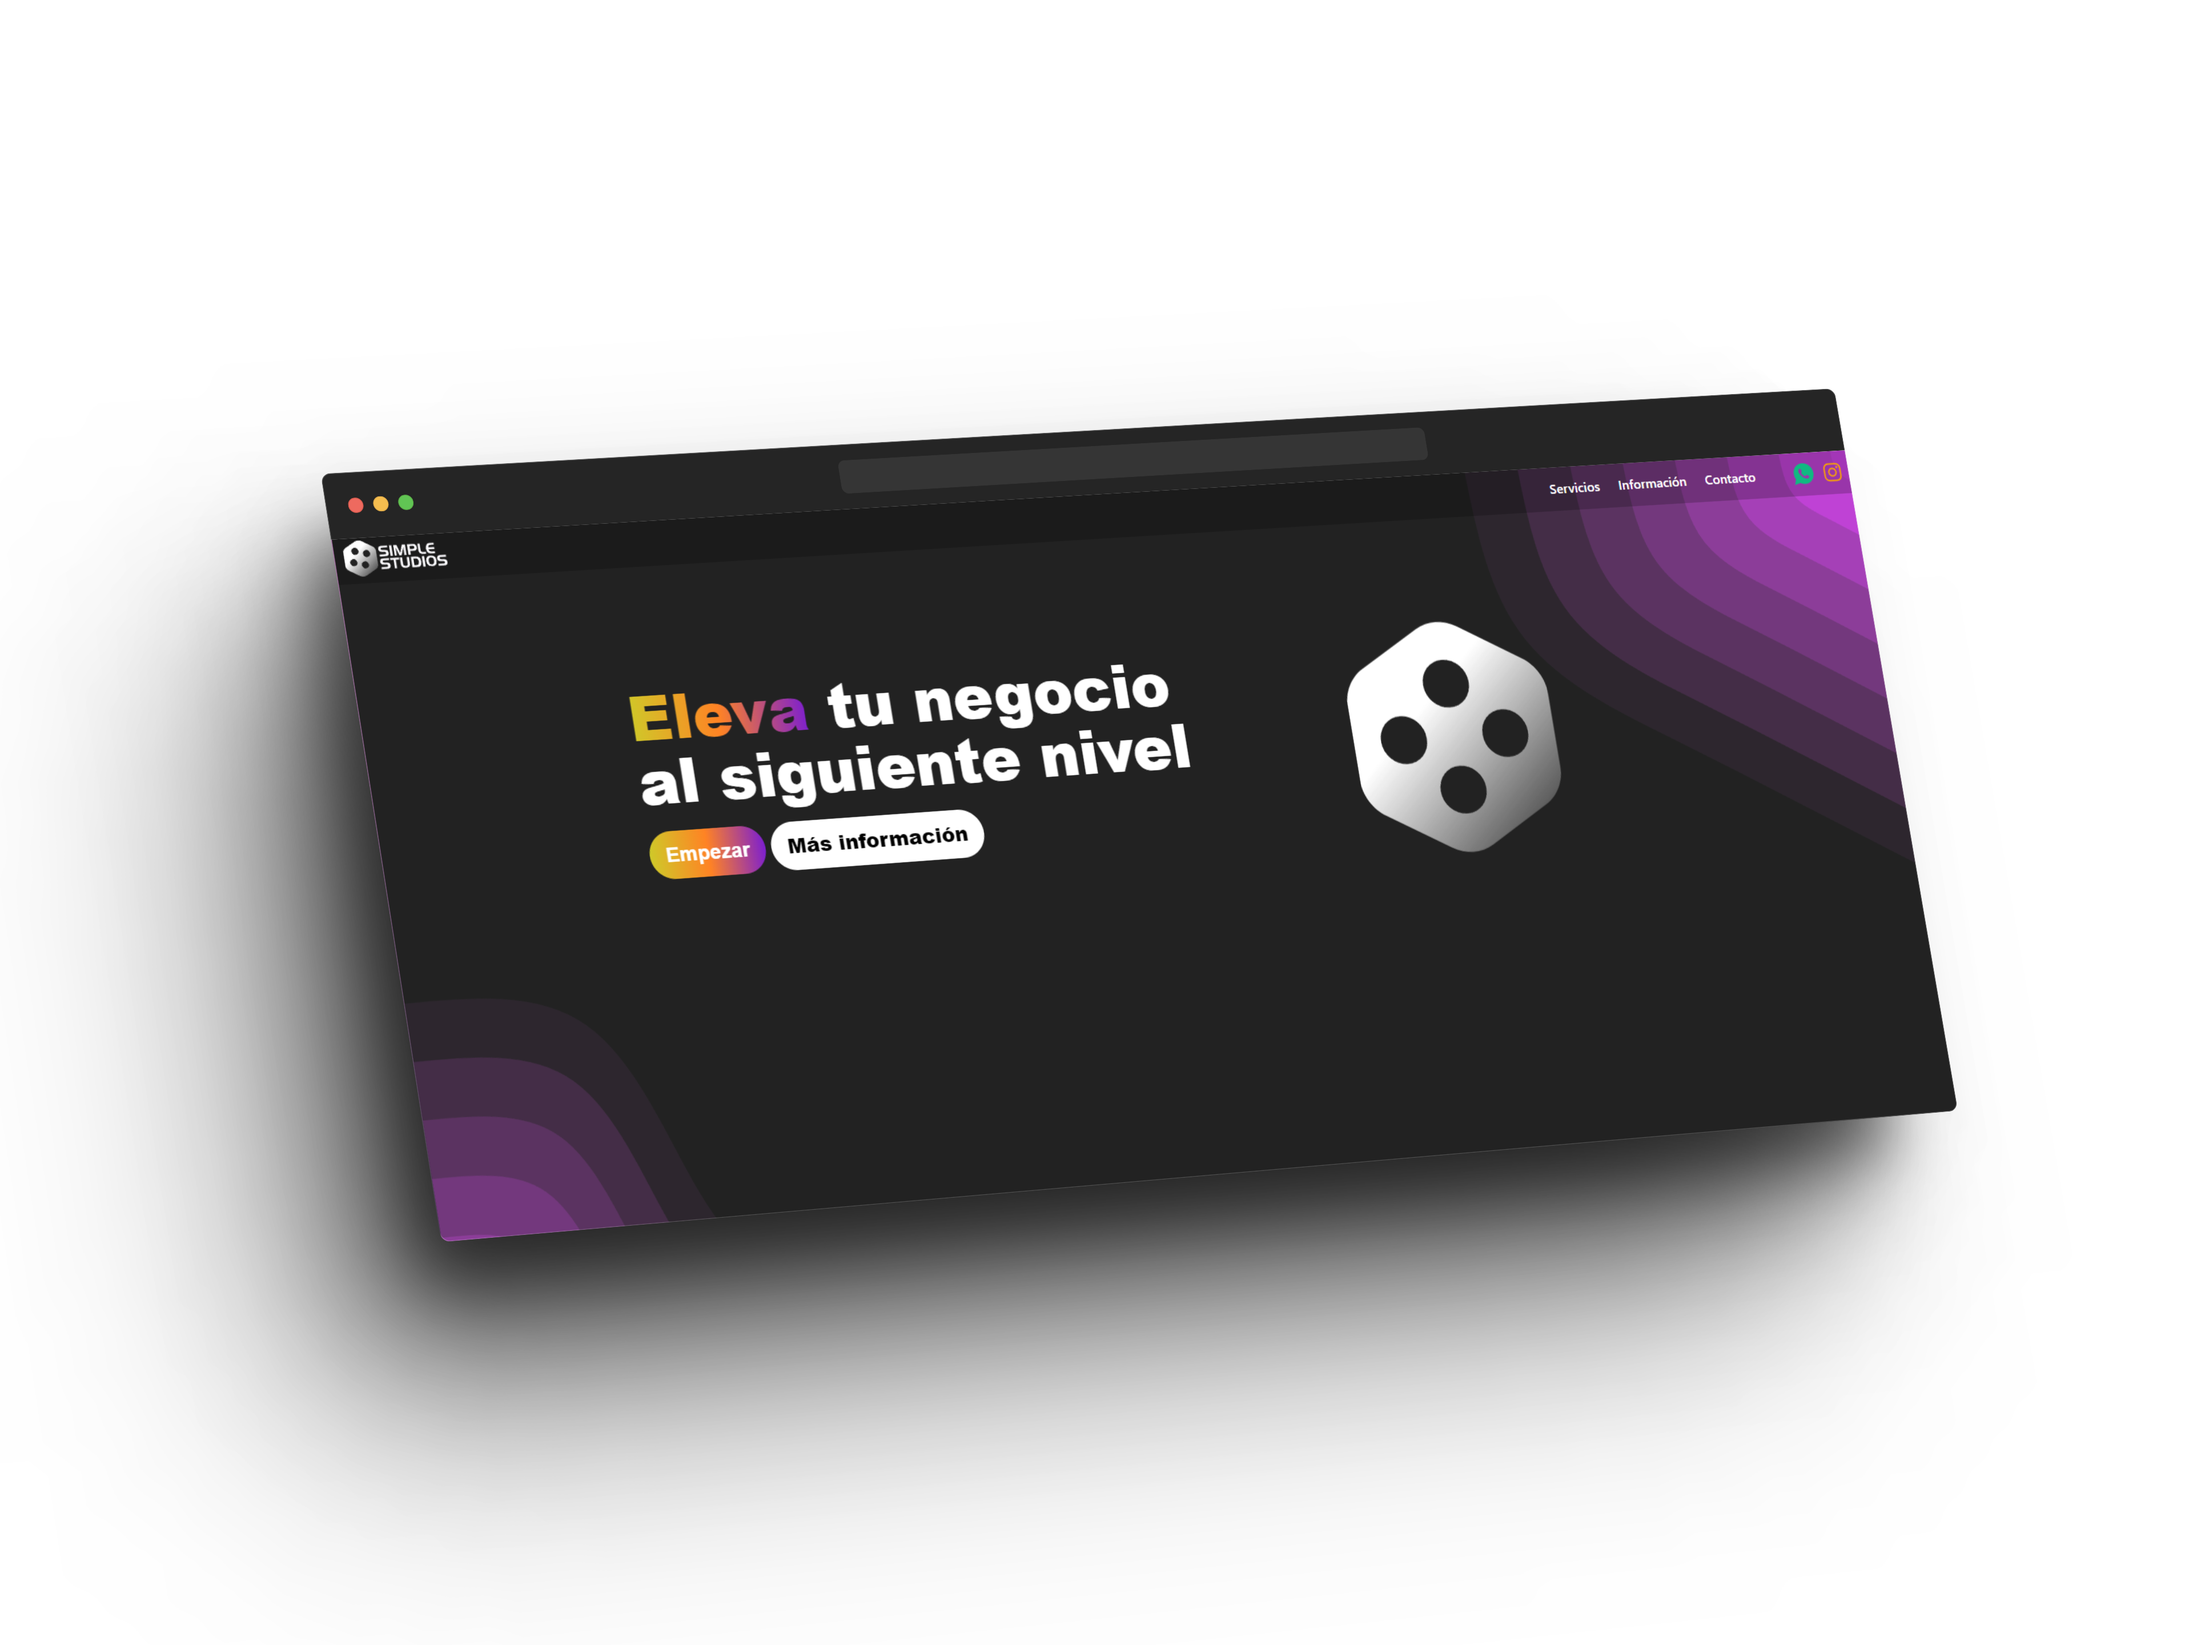
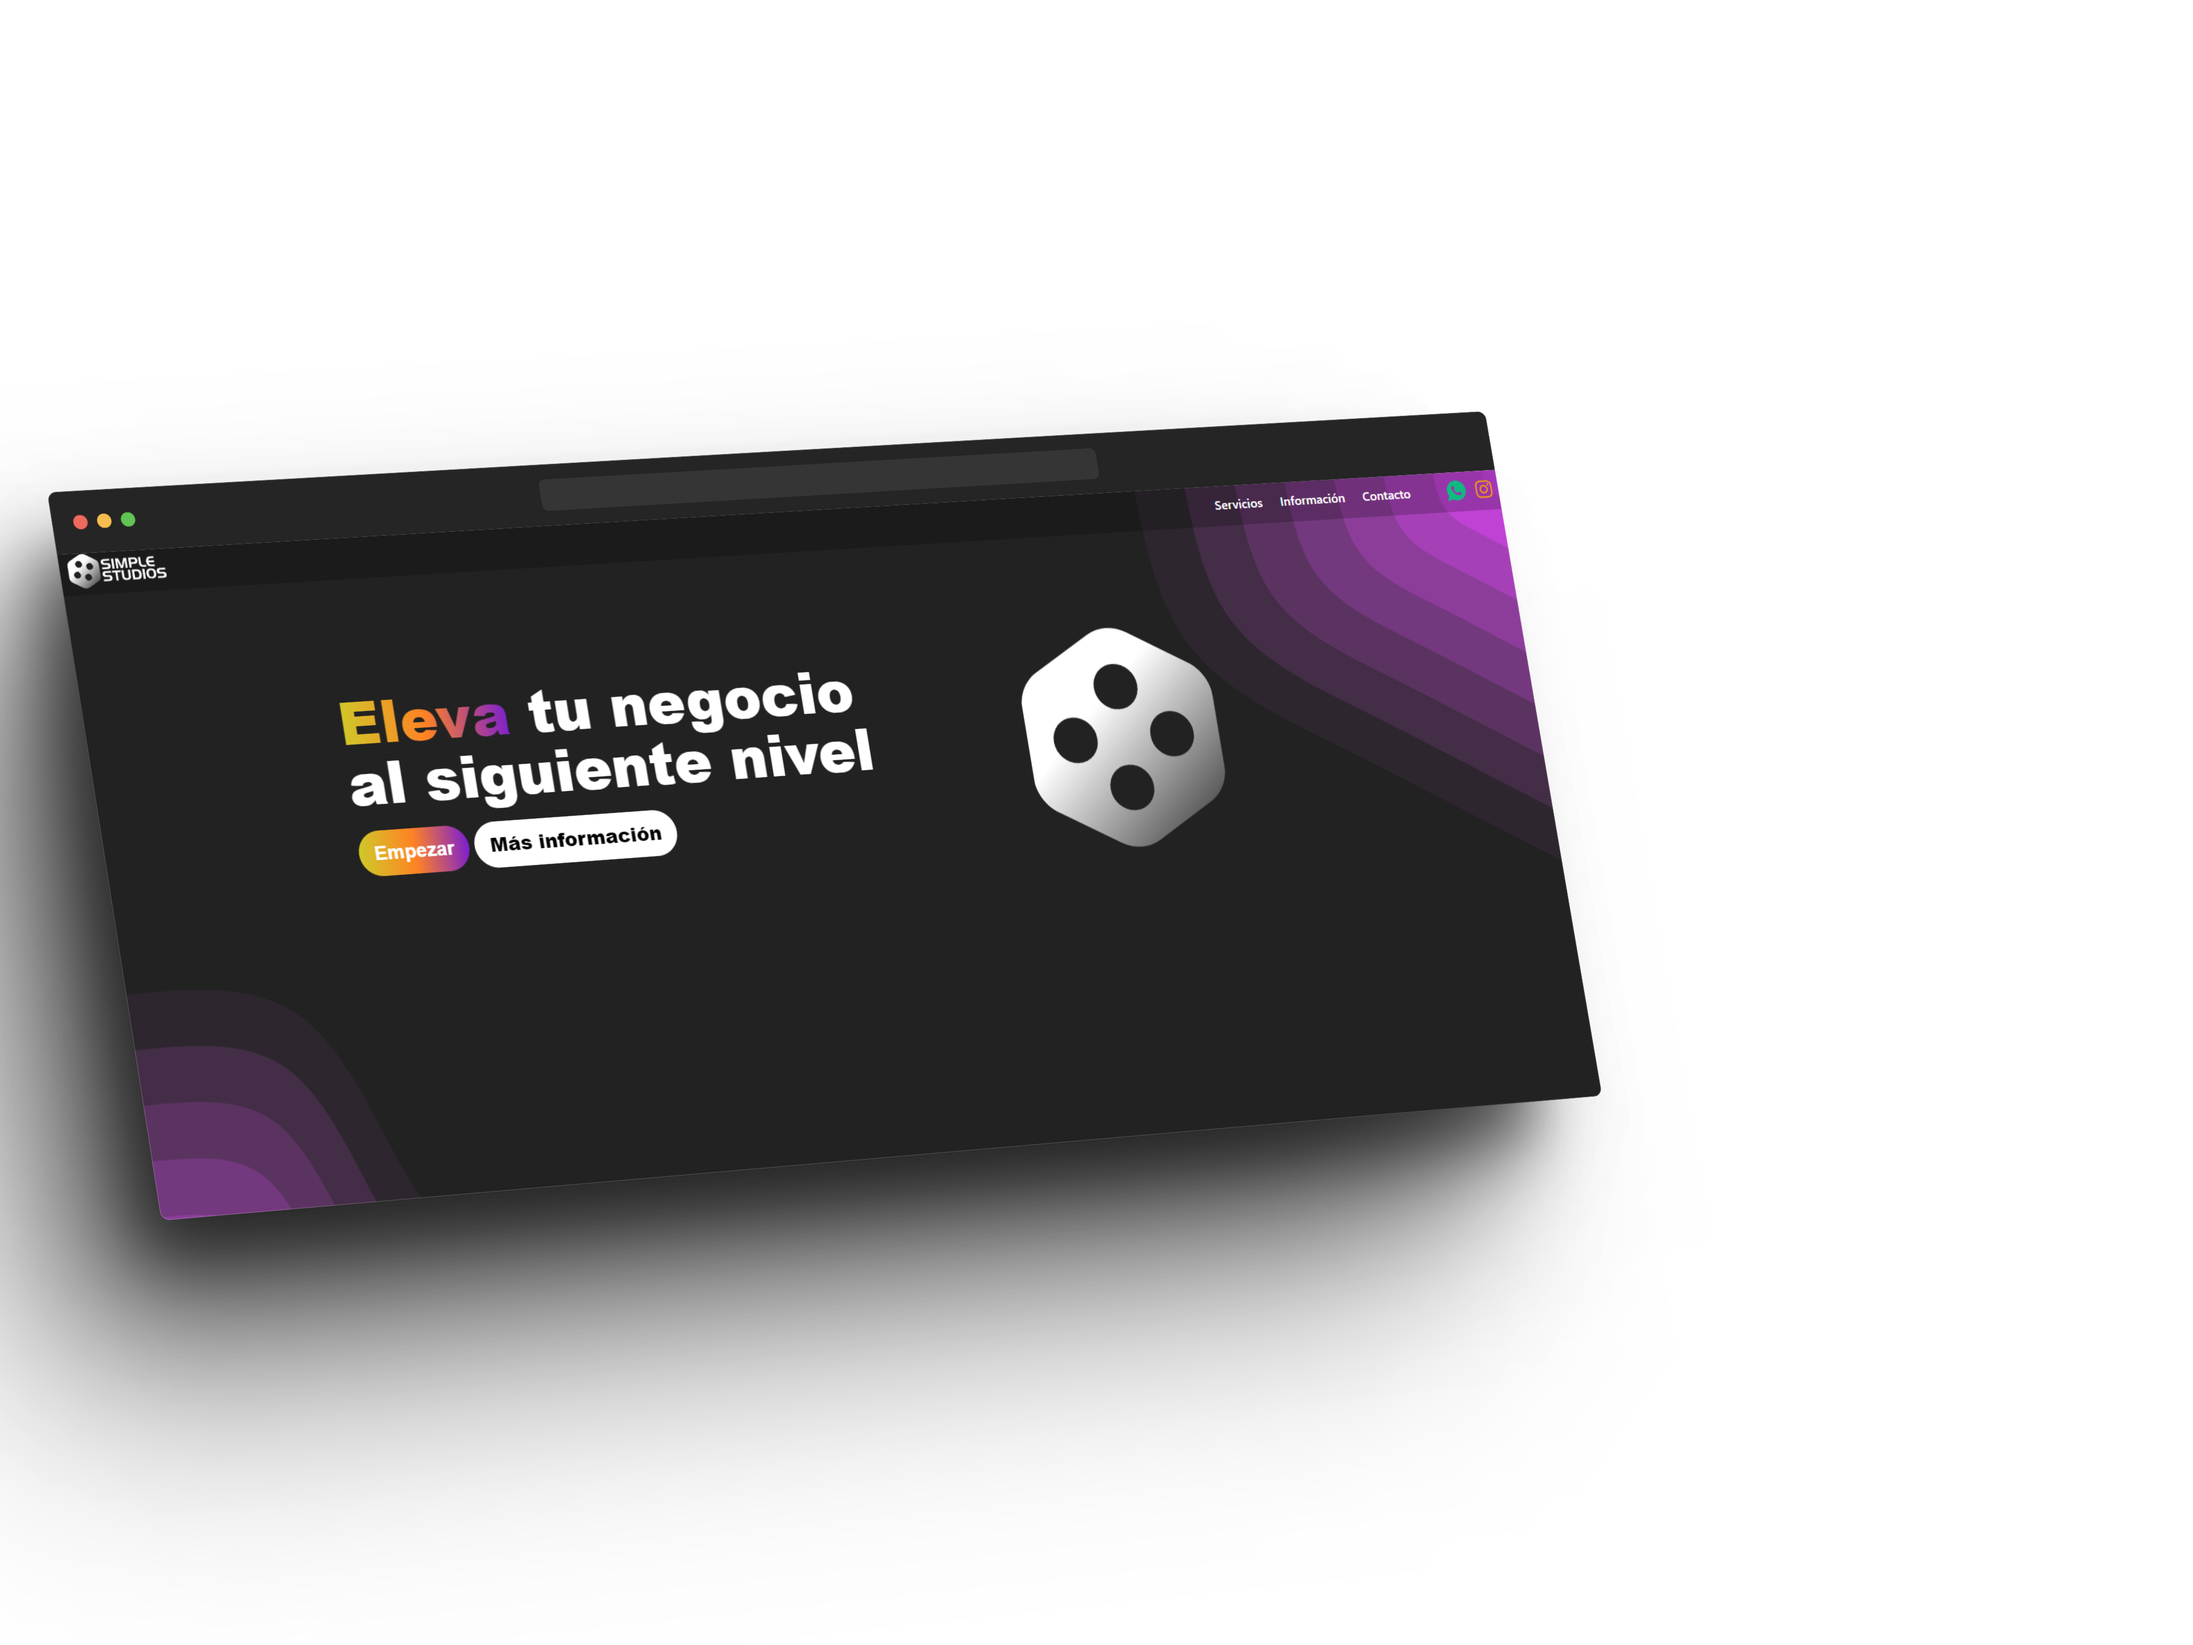
simple Studios Affiliation

diff --git a/app/(infoitems)/webpage/page.jsx b/app/(infoitems)/webpage/page.jsx
@@ -2,6 +2,8 @@
 
 import '../../globals.css'
 import React from 'react'
+import Image from 'next/image'
+import SimpleStudios from '../../../public/shotSimple.png'
 import { IoIosArrowBack } from "react-icons/io";
 import {Table, TableHeader, TableColumn, TableBody, TableRow, TableCell} from "@nextui-org/react";
 
@@ -54,16 +56,31 @@ export default function Webpage() {
 
               <h2 className='text-3xl font-extrabold mb-3'>Marketing y Promoción:</h2>
               <p>
-              Las páginas web son una herramienta esencial para las estrategias de marketing digital. A través de técnicas como el SEO, el contenido de calidad y las campañas de publicidad en línea, las páginas web pueden atraer tráfico, generar leads y aumentar las conversiones.              </p>
+              Las páginas web son una herramienta esencial para las estrategias de marketing digital. A través de técnicas como el SEO, el contenido de calidad y las campañas de publicidad en línea, las páginas web pueden atraer tráfico, generar leads y aumentar las conversiones. </p>
               <br />
 
               <h2 className='text-3xl font-extrabold mb-3'>Adaptabilidad:</h2>
               <p>
-              Las páginas web son altamente adaptables. Pueden evolucionar con el tiempo para mantenerse actualizadas y relevantes. Esto incluye la adición de nuevas secciones, la optimización para dispositivos móviles y la integración de nuevas tecnologías.              </p>
+              Las páginas web son altamente adaptables. Pueden evolucionar con el tiempo para mantenerse actualizadas y relevantes. Esto incluye la adición de nuevas secciones, la optimización para dispositivos móviles y la integración de nuevas tecnologías.</p>
               <br />
-            
 
-            
+
+
+              <p className='font-semibold'>Hay varias formas de crear paginas web hoy en dia, aun asi nosotros recomendamos a nuestros afiliados y este es el caso de <strong className='text-purple-600'>Simple Studios</strong></p>
+              <div className=' w-full p-6 mb-16 flex lg:flex-row flex-col justify-between items-center mt-3 rounded-lg'>
+
+                <div>
+                  <Image alt='Simple Studios' src={SimpleStudios} width={500} className='lg:block hidden'/>
+                </div>
+
+                <div className='w-full lg:w-2/4 text-right flex flex-col items-center justify-center lg:items-end lg:justify-end'>
+                  <p className='text-center lg:text-right text-2xl font-bold'>Con Simple Studios Eleva tu negocio al siguiente nivel recibiendo asesoria y soporte de la mano de expertos.</p>
+                  
+                  <a href="https://simple-studiosjs.vercel.app" target='_blank' className='p-2 rounded-lg bg-purple-800 mt-3 hover:bg-purple-900 duration-150 hover:-translate-y-1 w-fit px-9'>Ir</a>
+                </div>
+                
+              </div>
+              <br />
             </article>
 
         </section>

diff --git a/app/globals.css b/app/globals.css
@@ -31,6 +31,10 @@ body {
   height: 100vh;
 }
 
+.simple-bg{
+  background-image: url('../public/simplebg.svg');
+}
+
 
 
 .sectionbgSmall{
